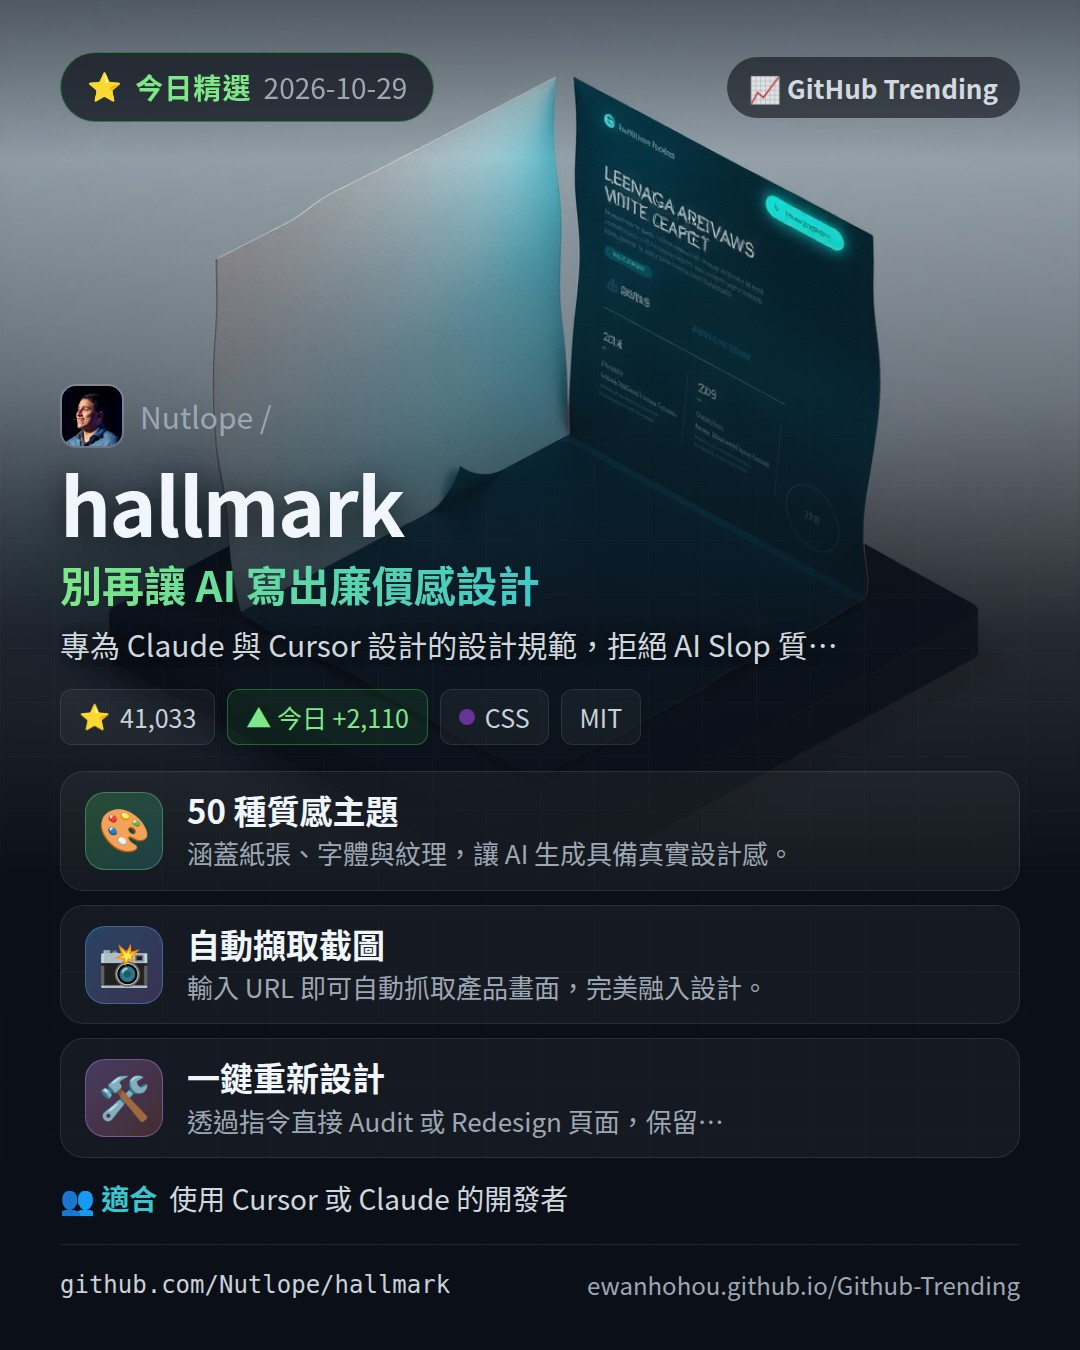
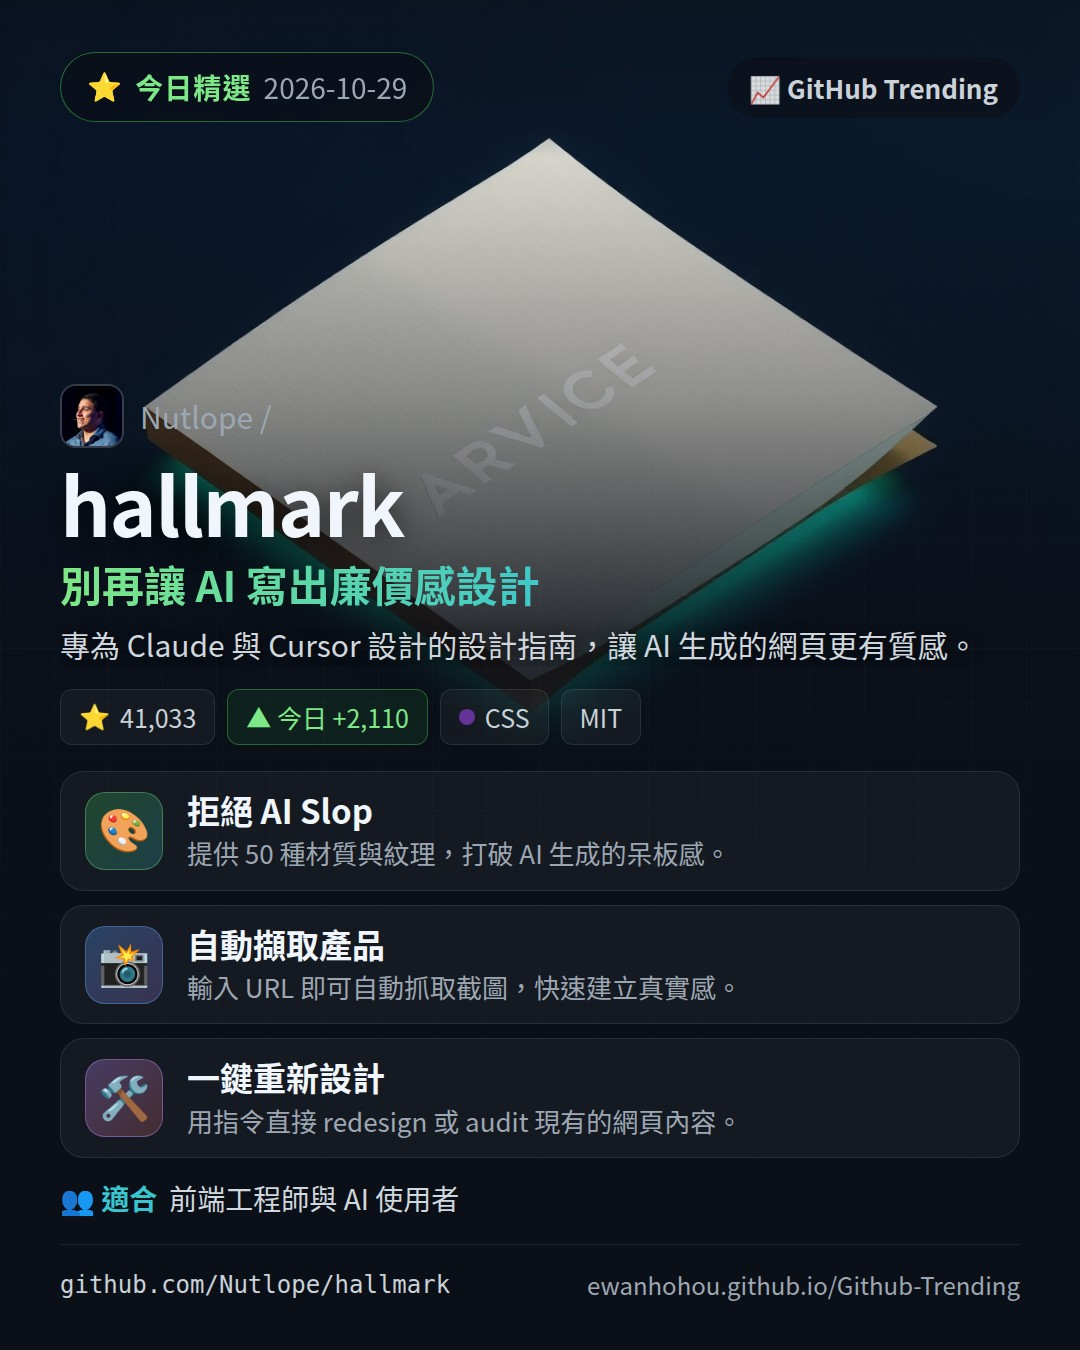
report: pick 2026-10-29

diff --git a/docs/daily/2026-10-29.html b/docs/daily/2026-10-29.html
@@ -60,8 +60,8 @@
     <h2><a href="https://github.com/Nutlope/hallmark" target="_blank" rel="noopener"><span class="owner">Nutlope /</span> hallmark</a></h2>
     
       <p class="pick-hook">別再讓 AI 寫出廉價感設計</p>
-      <p>教你如何透過設計技巧，讓 AI 生成的程式碼不再充滿廉價感。</p>
-      <ul class="pick-points"><li><span>🎨</span><b>50 種質感主題</b> 涵蓋紙張、字體與紋理，讓 AI 生成具備真實設計感。</li><li><span>📸</span><b>自動擷取截圖</b> 輸入 URL 即可自動抓取產品畫面，完美融入設計。</li><li><span>🛠</span><b>一鍵重新設計</b> 透過指令直接 Audit 或 Redesign 頁面，保留…</li></ul>
+      <p>教你如何透過設計技巧，讓 AI 生成的程式碼不再有廉價感。</p>
+      <ul class="pick-points"><li><span>🎨</span><b>拒絕 AI Slop</b> 提供 50 種材質與紋理，打破 AI 生成的呆板感。</li><li><span>📸</span><b>自動擷取產品</b> 輸入 URL 即可自動抓取截圖，快速建立真實感。</li><li><span>🛠</span><b>一鍵重新設計</b> 用指令直接 redesign 或 audit 現有的網頁內容。</li></ul>
     
     <p class="links">
       <a href="#Nutlope--hallmark">看完整介紹 ↓</a>

diff --git a/docs/daily/latest.html b/docs/daily/latest.html
@@ -60,8 +60,8 @@
     <h2><a href="https://github.com/Nutlope/hallmark" target="_blank" rel="noopener"><span class="owner">Nutlope /</span> hallmark</a></h2>
     
       <p class="pick-hook">別再讓 AI 寫出廉價感設計</p>
-      <p>教你如何透過設計技巧，讓 AI 生成的程式碼不再充滿廉價感。</p>
-      <ul class="pick-points"><li><span>🎨</span><b>50 種質感主題</b> 涵蓋紙張、字體與紋理，讓 AI 生成具備真實設計感。</li><li><span>📸</span><b>自動擷取截圖</b> 輸入 URL 即可自動抓取產品畫面，完美融入設計。</li><li><span>🛠</span><b>一鍵重新設計</b> 透過指令直接 Audit 或 Redesign 頁面，保留…</li></ul>
+      <p>教你如何透過設計技巧，讓 AI 生成的程式碼不再有廉價感。</p>
+      <ul class="pick-points"><li><span>🎨</span><b>拒絕 AI Slop</b> 提供 50 種材質與紋理，打破 AI 生成的呆板感。</li><li><span>📸</span><b>自動擷取產品</b> 輸入 URL 即可自動抓取截圖，快速建立真實感。</li><li><span>🛠</span><b>一鍵重新設計</b> 用指令直接 redesign 或 audit 現有的網頁內容。</li></ul>
     
     <p class="links">
       <a href="#Nutlope--hallmark">看完整介紹 ↓</a>

diff --git a/docs/index.html b/docs/index.html
@@ -64,7 +64,7 @@
   <a class="latest-card pick-card" href="daily/2026-10-29.html#Nutlope--hallmark">
     <span class="muted small">⭐ 今日精選</span>
     <strong>hallmark</strong>
-    <span class="muted small">教你如何透過設計技巧，讓 AI 生成的程式碼不再充滿廉價感。</span>
+    <span class="muted small">教你如何透過設計技巧，讓 AI 生成的程式碼不再有廉價感。</span>
   </a>
   
   

diff --git a/docs/sw.js b/docs/sw.js
@@ -1,5 +1,5 @@
 // 由 trending/render.py 產生。網頁用「網路優先、離線時用快取」，圖片用「快取優先」。
-const VERSION = "c5d97a16f57f";
+const VERSION = "43147cf581b9";
 const PAGES = "pages-" + VERSION;
 const IMAGES = "images-v2";
 const MAX_IMAGES = 80;
